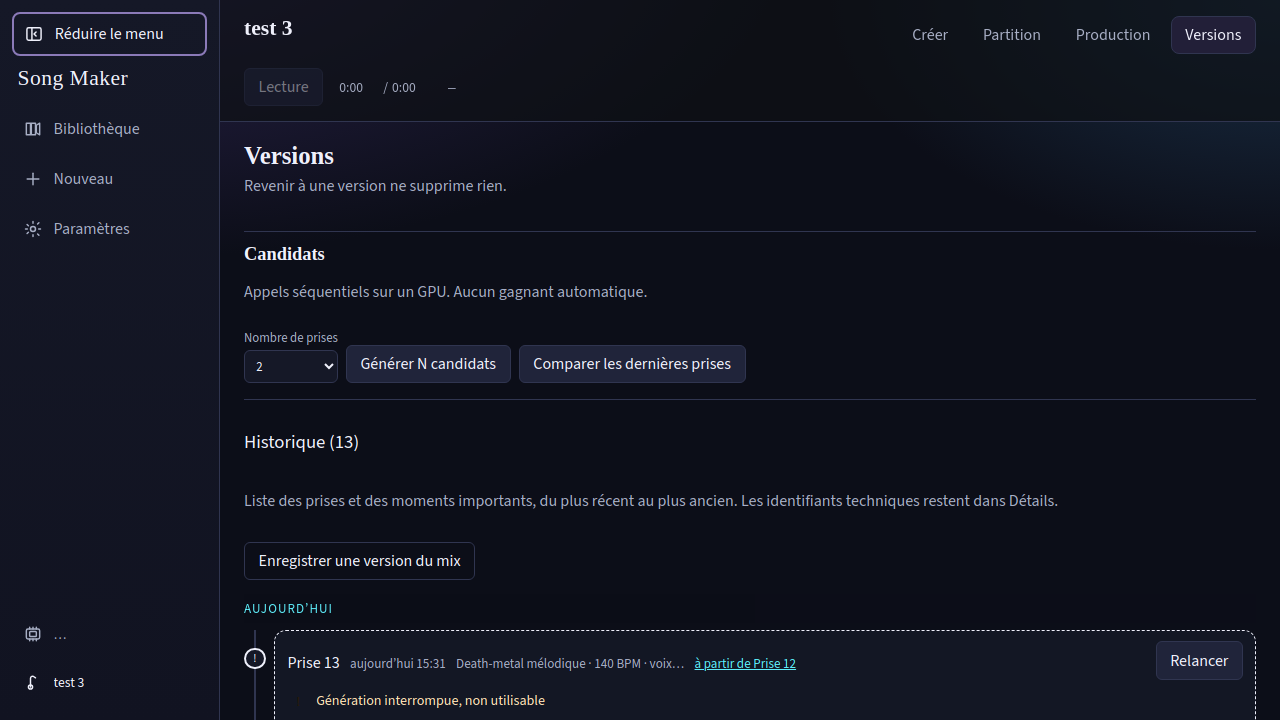
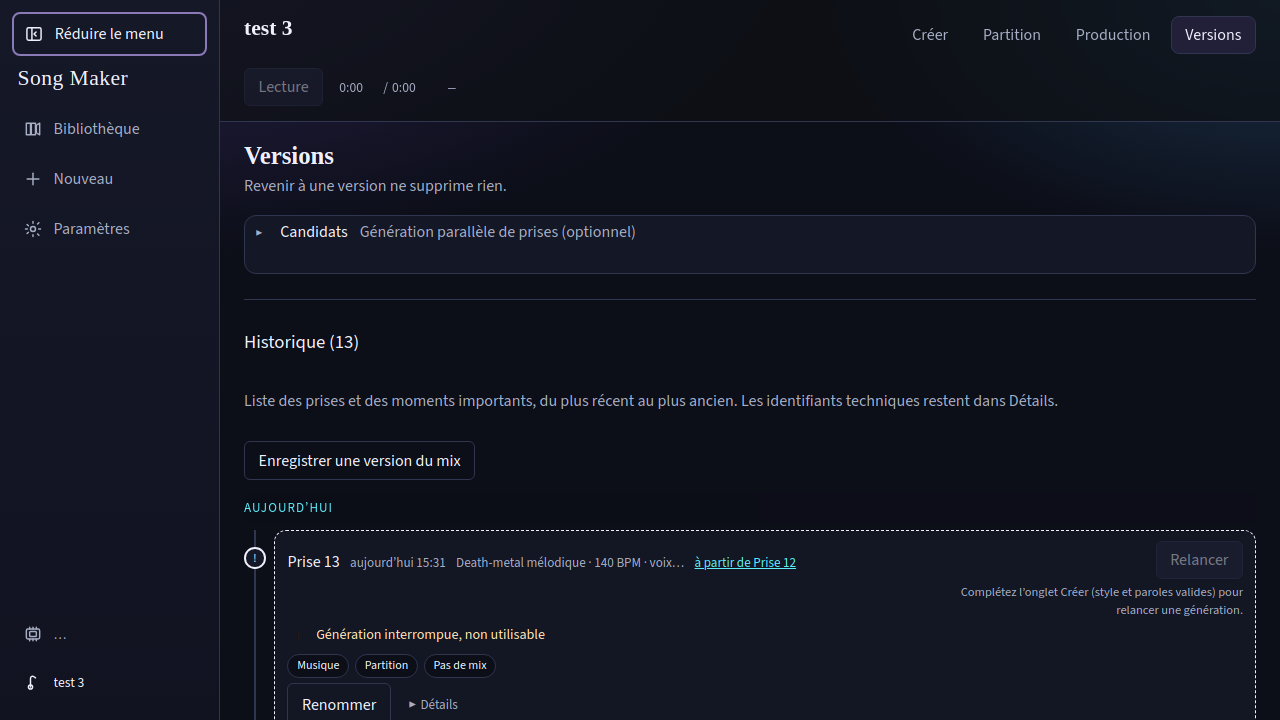
fix(versions): retouches UX candidats, pastilles et Relancer (Refs #133)
- Libellé Générer N candidats avec le nombre réel
- Bloc Candidats replié par défaut
- Pastille Pas de mix + aide Relancer grisé
- Captures React régénérées

Closes #147

diff --git a/src/components/VersionHistory.tsx b/src/components/VersionHistory.tsx
@@ -22,6 +22,8 @@ type Props = {
   onListen: (genId: string) => void;
   onActivateTake: (genId: string) => Promise<void>;
   onRetryTake?: (genId: string) => void;
+  canRetryTake?: boolean;
+  retryTakeBlockedReason?: string | null;
   onActivateSeparation?: (separationId: string) => void;
   onRenameTake?: (genId: string, name: string) => Promise<void>;
   onSaveMixVersion?: () => void;
@@ -42,6 +44,8 @@ export function VersionHistory({
   onListen,
   onActivateTake,
   onRetryTake,
+  canRetryTake = true,
+  retryTakeBlockedReason = null,
   onActivateSeparation,
   onRenameTake,
   onSaveMixVersion,
@@ -371,14 +375,30 @@ export function VersionHistory({
                             </span>
                           ) : take.isInterrupted ? (
                             onRetryTake && (
-                              <button
-                                type="button"
-                                className="btn"
-                                disabled={busy}
-                                onClick={() => onRetryTake(take.id)}
-                              >
-                                {t("versions.interrupted.retry")}
-                              </button>
+                              <div className="version-retry-block">
+                                <button
+                                  type="button"
+                                  className="btn"
+                                  disabled={busy || !canRetryTake}
+                                  title={retryTakeBlockedReason ?? undefined}
+                                  aria-describedby={
+                                    retryTakeBlockedReason
+                                      ? `${listId}-retry-hint-${take.id}`
+                                      : undefined
+                                  }
+                                  onClick={() => onRetryTake(take.id)}
+                                >
+                                  {t("versions.interrupted.retry")}
+                                </button>
+                                {retryTakeBlockedReason && (
+                                  <p
+                                    id={`${listId}-retry-hint-${take.id}`}
+                                    className="version-retry-hint hint"
+                                  >
+                                    {retryTakeBlockedReason}
+                                  </p>
+                                )}
+                              </div>
                             )
                           ) : (
                             <>
@@ -424,6 +444,7 @@ export function VersionHistory({
                         <ContentPill
                           label={t("versions.pill.mix")}
                           present={take.hasMix}
+                          absentVisibleLabel={t("versions.pill.noMix")}
                         />
                       </ul>
 
@@ -481,20 +502,23 @@ export function VersionHistory({
 function ContentPill({
   label,
   present,
+  absentVisibleLabel,
 }: {
   label: string;
   present: boolean;
+  absentVisibleLabel?: string;
 }) {
+  const display = present ? label : (absentVisibleLabel ?? label);
   const stateLabel = present
     ? t("versions.pill.present")
     : t("versions.pill.absent");
   return (
     <li
       className={`version-pill${present ? "" : " missing"}`}
-      aria-label={`${label}, ${stateLabel}`}
+      aria-label={`${display}, ${stateLabel}`}
     >
-      <span aria-hidden="true">{present ? "✓" : "–"}</span>
-      {label}
+      {present && <span aria-hidden="true">✓</span>}
+      {display}
     </li>
   );
 }

diff --git a/src/screens/song/VersionsWorkspace.tsx b/src/screens/song/VersionsWorkspace.tsx
@@ -25,6 +25,8 @@ type VersionsWorkspaceProps = {
   onGenerateBatch: (count: number) => Promise<void>;
   onRevertSeparation?: () => void;
   onRetryTake?: (generationId: string) => void;
+  canRetryTake?: boolean;
+  retryTakeBlockedReason?: string | null;
   onSeparationSwitched?: () => void;
   openProject: (id: string) => Promise<void>;
   project: ProjectDoc;
@@ -41,6 +43,8 @@ export function VersionsWorkspace({
   onGenerateBatch,
   onRevertSeparation,
   onRetryTake,
+  canRetryTake = true,
+  retryTakeBlockedReason = null,
   onSeparationSwitched,
   openProject,
   project,
@@ -137,18 +141,25 @@ export function VersionsWorkspace({
         <p className="hint">{workspaceIntro("versions")}</p>
       </header>
 
-      <CandidateCompare
-        generations={generations}
-        activeId={project.activeGenerationId}
-        busy={busy}
-        candidateCount={candidateCount}
-        onCandidateCount={setCandidateCount}
-        onGenerateBatch={onGenerateBatch}
-        takeLabels={takeLabels}
-        onUse={(genId) => {
-          void activateTake(genId);
-        }}
-      />
+      <details className="version-candidates-fold">
+        <summary className="version-candidates-fold-summary">
+          <span>{t("candidates.title")}</span>
+          <span className="hint">{t("candidates.foldSummary")}</span>
+        </summary>
+        <CandidateCompare
+          generations={generations}
+          activeId={project.activeGenerationId}
+          busy={busy}
+          candidateCount={candidateCount}
+          onCandidateCount={setCandidateCount}
+          onGenerateBatch={onGenerateBatch}
+          takeLabels={takeLabels}
+          showHeading={false}
+          onUse={(genId) => {
+            void activateTake(genId);
+          }}
+        />
+      </details>
 
       {generations.find((g) => g.id === project.activeGenerationId)
         ?.semanticTruncated && (
@@ -206,6 +217,8 @@ export function VersionsWorkspace({
           }}
           onActivateTake={activateTake}
           onRetryTake={onRetryTake}
+          canRetryTake={canRetryTake}
+          retryTakeBlockedReason={retryTakeBlockedReason}
           onActivateSeparation={(separationId) => {
             void api
               .activateSeparationVersion(project.id, separationId)

diff --git a/src/components/CandidateCompare.tsx b/src/components/CandidateCompare.tsx
@@ -5,6 +5,7 @@ import {
 } from "@song-maker/score-engine";
 import { useMemo, useState } from "react";
 import type { GenerationSummary } from "../lib/types";
+import { candidateGenerateLabel } from "./candidateLabels";
 import { t } from "../ui/i18n";
 
 type Props = {
@@ -17,6 +18,8 @@ type Props = {
   onUse: (genId: string) => void;
   /** Readable take titles keyed by generation id (#133). */
   takeLabels?: Record<string, string>;
+  /** Masque le titre intégré (ex. bloc replié dans Versions). */
+  showHeading?: boolean;
 };
 
 function toCandidate(
@@ -45,6 +48,7 @@ export function CandidateCompare({
   onGenerateBatch,
   onUse,
   takeLabels,
+  showHeading = true,
 }: Props) {
   const comparer = useMemo(() => createCandidateComparer(), []);
   const [view, setView] = useState<CandidateCompareView | null>(null);
@@ -67,10 +71,12 @@ export function CandidateCompare({
 
   return (
     <div className="candidate-compare">
-      <div className="candidate-compare-header">
-        <h2>{t("candidates.title")}</h2>
-        <p className="hint">{t("candidates.hint")}</p>
-      </div>
+      {showHeading && (
+        <div className="candidate-compare-header">
+          <h2>{t("candidates.title")}</h2>
+          <p className="hint">{t("candidates.hint")}</p>
+        </div>
+      )}
 
       <div className="candidate-controls">
         <label>
@@ -90,10 +96,10 @@ export function CandidateCompare({
         <button
           type="button"
           className="btn"
-          disabled={busy || candidateCount < 2}
+          disabled={busy || candidateCount < 1}
           onClick={() => void onGenerateBatch(candidateCount)}
         >
-          {t("candidates.generate")}
+          {candidateGenerateLabel(candidateCount)}
         </button>
         <button
           type="button"

diff --git a/src/App.css b/src/App.css
@@ -1449,6 +1449,62 @@ details[open] > summary {
   margin-bottom: 0.65rem;
 }
 
+.version-candidates-fold {
+  margin-bottom: 0.55rem;
+  border: 1px solid var(--line);
+  border-radius: 12px;
+  padding: 0.35rem 0.65rem 0.5rem;
+  background: color-mix(in srgb, var(--bg1) 92%, transparent);
+}
+
+.version-candidates-fold-summary {
+  display: flex;
+  flex-wrap: wrap;
+  align-items: baseline;
+  gap: 0.35rem 0.75rem;
+  cursor: pointer;
+  font-weight: 700;
+  min-height: 44px;
+  list-style: none;
+}
+
+.version-candidates-fold-summary::-webkit-details-marker {
+  display: none;
+}
+
+.version-candidates-fold-summary::before {
+  content: "▶";
+  display: inline-block;
+  margin-right: 0.35rem;
+  font-size: 0.75rem;
+  color: var(--muted);
+}
+
+.version-candidates-fold[open] > .version-candidates-fold-summary::before {
+  content: "▼";
+}
+
+.version-candidates-fold .candidate-compare {
+  margin-top: 0.45rem;
+  padding-top: 0.45rem;
+  border-top: 1px solid var(--line);
+}
+
+.version-retry-block {
+  display: flex;
+  flex-direction: column;
+  align-items: flex-end;
+  gap: 0.25rem;
+  max-width: 18rem;
+}
+
+.version-retry-hint {
+  margin: 0;
+  font-size: 0.78rem;
+  text-align: right;
+  max-width: 18rem;
+}
+
 .version-history {
   border-top: 1px solid var(--line);
   padding-top: 0.65rem;
@@ -1855,6 +1911,8 @@ details[open] > summary {
   flex: 1 1 12rem;
   word-break: break-all;
   white-space: pre-wrap;
+  font-size: 0.86rem;
+  line-height: 1.45;
 }
 
 .score-edit-section,

diff --git a/src/screens/SongScreen.tsx b/src/screens/SongScreen.tsx
@@ -618,6 +618,14 @@ export function SongScreen() {
     playbackSources?.mode === "stems" &&
     (mix?.tracks.some((tr) => tr.aiSeparated) ?? false);
 
+  const retryTakeBlockedReason = busy
+    ? t("versions.interrupted.retryBlockedBusy")
+    : formError || scoreGate.error
+      ? t("versions.interrupted.retryBlockedForm")
+      : null;
+  const canRetryTake =
+    !busy && !formError && Boolean(!scoreGate.error);
+
   return (
     <div className={`song-layout${workspace === "production" ? " song-layout-production" : ""}`}>
       <header className="song-workspace-chrome">
@@ -756,6 +764,8 @@ export function SongScreen() {
               separationUndo ? () => void onRevertSeparation() : undefined
             }
             onRetryTake={(genId) => void onRetryTake(genId)}
+            canRetryTake={canRetryTake}
+            retryTakeBlockedReason={retryTakeBlockedReason}
             onSeparationSwitched={() => setSeparationUndo(null)}
             openProject={openProject}
             project={project}

diff --git a/src/components/candidateLabels.test.ts b/src/components/candidateLabels.test.ts
@@ -1,0 +1,14 @@
+import assert from "node:assert/strict";
+import { describe, it } from "node:test";
+import { candidateGenerateLabel } from "./candidateLabels.ts";
+
+describe("candidateGenerateLabel", () => {
+  it("utilise le singulier pour 1 candidat", () => {
+    assert.equal(candidateGenerateLabel(1), "Générer 1 candidat");
+  });
+
+  it("affiche le nombre choisi au pluriel", () => {
+    assert.equal(candidateGenerateLabel(2), "Générer 2 candidats");
+    assert.equal(candidateGenerateLabel(4), "Générer 4 candidats");
+  });
+});

diff --git a/docs/design/versions-prises/captures-react/main.tsx b/docs/design/versions-prises/captures-react/main.tsx
@@ -12,7 +12,12 @@ function CaptureRoot() {
       .getState()
       .openProject(PROJECT_ID)
       .then(() => {
-        useAppStore.setState({ screen: "song" });
+        const state = useAppStore.getState();
+        useAppStore.setState({
+          screen: "song",
+          // Formulaire invalide → « Relancer » grisé + explication (prise 13).
+          form: { ...state.form, style: "", lyrics: "" },
+        });
         setReady(true);
       })
       .catch((e) => {

diff --git a/src/components/candidateLabels.ts b/src/components/candidateLabels.ts
@@ -1,0 +1,7 @@
+import { t } from "../ui/i18n";
+
+/** Libellé du bouton de génération de candidats (#133 suivi). */
+export function candidateGenerateLabel(count: number): string {
+  if (count === 1) return t("candidates.generateOne");
+  return t("candidates.generateMany", { count: String(count) });
+}
